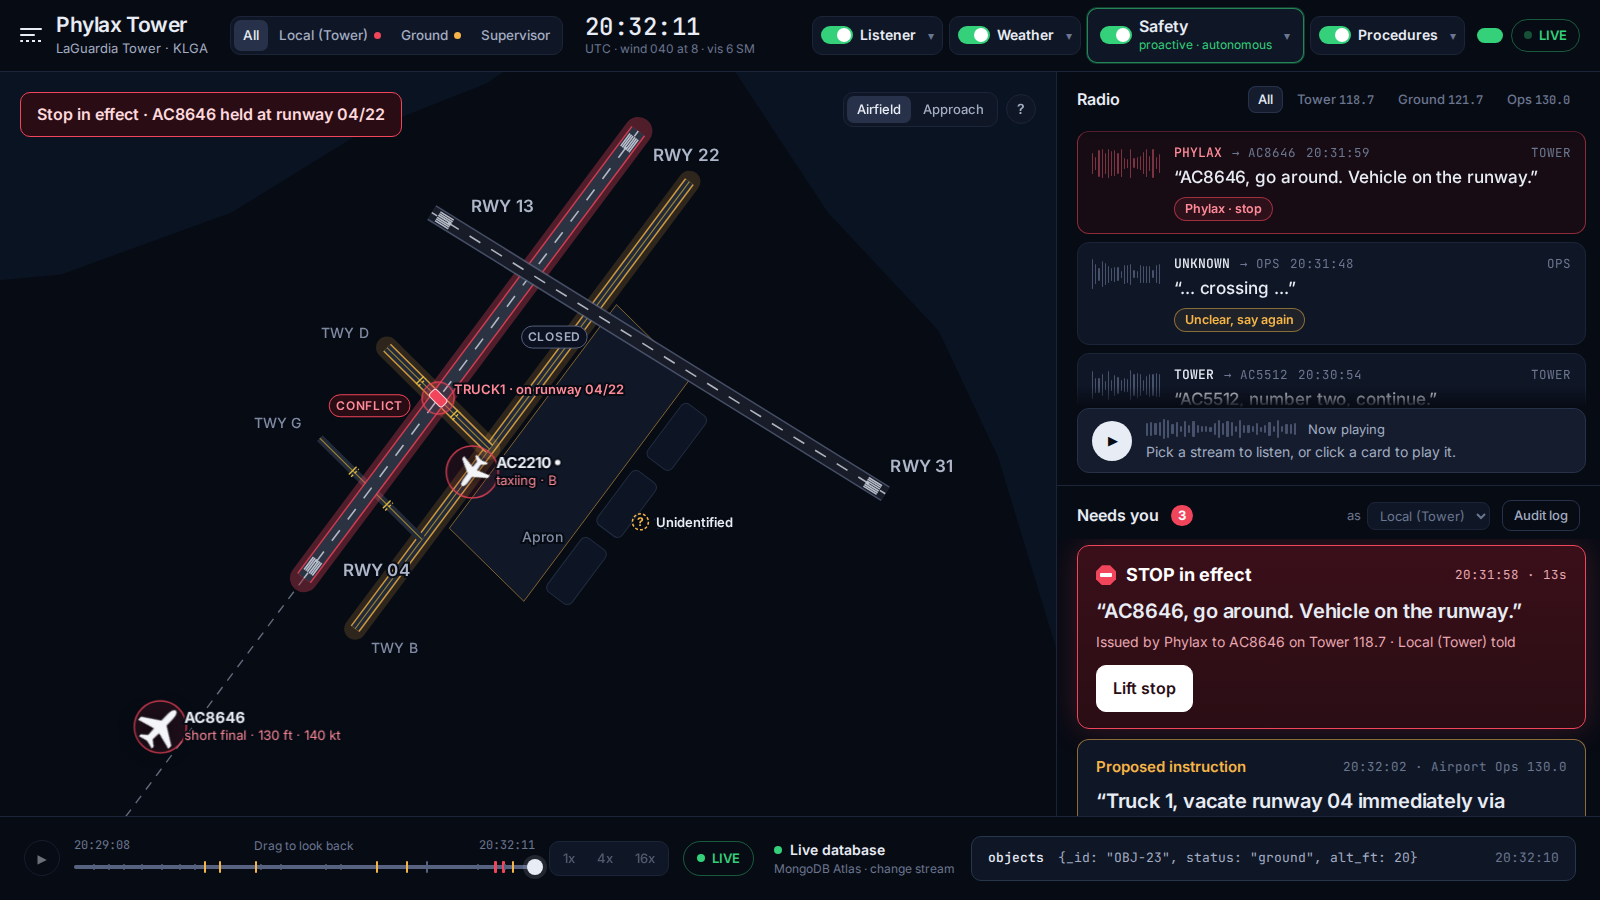
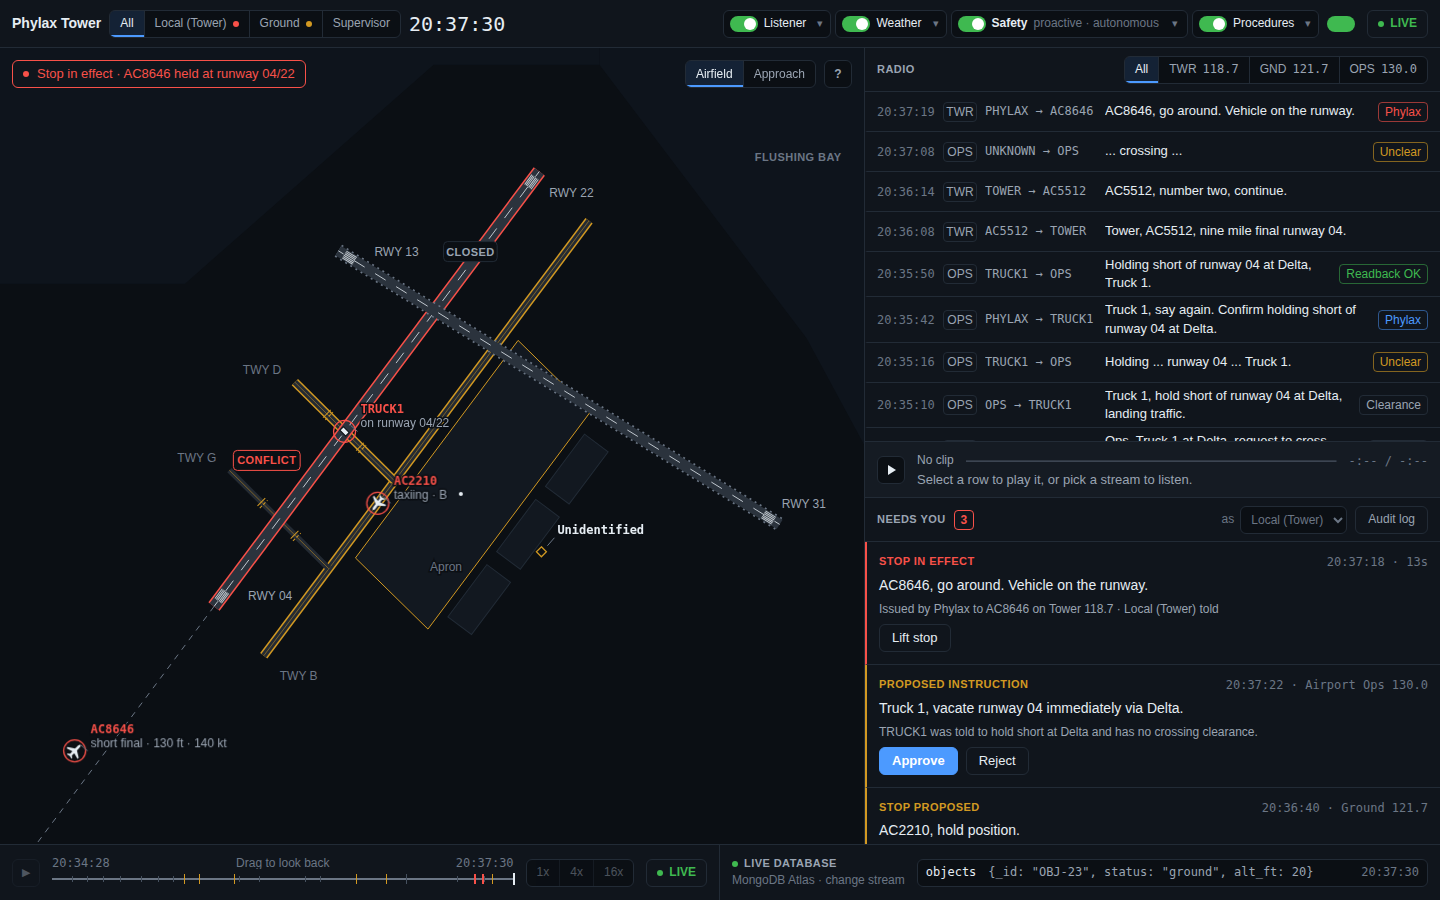
Visualizer: map tags placed clear of each other and of the controls, leader lines, updated screenshots

diff --git a/visualizer/web/src/components/MapView.tsx b/visualizer/web/src/components/MapView.tsx
@@ -119,6 +119,7 @@ export function MapView({ world, objects, laneStatus, ownedLanes, flagged, smoot
   const lanes = [...world.lanes].sort((a, b) => order[a.kind] - order[b.kind]);
   const laneOf = (id: string | null) => world.lanes.find((l) => l._id === id);
   const thrPx = geom.final ? mpx(geom.final.thr) : null;
+  const placed: number[][] = [[0, 0, 250, 56], [size.w - 250, 0, size.w, 56]];
 
   return (
     <div className="map" ref={ref}>
@@ -172,17 +173,6 @@ export function MapView({ world, objects, laneStatus, ownedLanes, flagged, smoot
             const h = 120 * scale;
             return <rect key={i} className="terminal" x={-w / 2} y={-h / 2} width={w} height={h} transform={`translate(${c[0]},${c[1]}) rotate(${t.ang})`} />;
           })}
-        {!far &&
-          geom.termLabel &&
-          (() => {
-            const c = mpx(geom.termLabel);
-            return (
-              <text x={c[0]} y={c[1] + 5} className="quiet-label small">
-                Terminals
-              </text>
-            );
-          })()}
-
         {lanes.map((l) => (
           <LaneShape key={l._id} lane={l} state={statusOf(l._id)?.state ?? 'clear'} px={px} scale={scale} far={far} dim={dim(l._id)} owned={ownedLanes?.has(l._id) ?? false} />
         ))}
@@ -207,7 +197,7 @@ export function MapView({ world, objects, laneStatus, ownedLanes, flagged, smoot
           <LaneLabel key={l._id} lane={l} status={statusOf(l._id)} px={px} far={far} dim={dim(l._id)} scale={scale} />
         ))}
 
-        {objects.map((o, idx) => {
+        {objects.map((o) => {
           const p = px(o.position.coordinates);
           const name = o.callsign ?? o.label ?? o._id;
           const air = o.status === 'airborne';
@@ -229,9 +219,25 @@ export function MapView({ world, objects, laneStatus, ownedLanes, flagged, smoot
                 : laneOf(o.lane_id)?.kind === 'runway'
                   ? `on runway ${laneOf(o.lane_id)!.designators.join('/')}`
                   : '';
-          const below = idx % 2 === 1;
-          const lx = 16;
-          const ly = below ? 20 : sub ? -18 : -8;
+          // place the tag where it is clear of the tags already placed and of the two map controls
+          const tw = Math.max(name.length * 7.6, sub.length * 6.4) + 6;
+          const th = sub ? 30 : 16;
+          const cands: [number, number, boolean][] = [[16, -18, false], [16, 24, false], [-16, -18, true], [-16, 24, true], [16, -50, false], [16, 56, false], [-16, -50, true], [-16, 56, true]];
+          let pick = cands[0];
+          if (showLabel) {
+            for (const c of cands) {
+              const x0 = p[0] + (c[2] ? c[0] - tw : c[0]);
+              const y0 = p[1] + c[1] - 12;
+              if (!placed.some((r) => x0 < r[2] && x0 + tw > r[0] && y0 < r[3] && y0 + th > r[1])) {
+                pick = c;
+                break;
+              }
+            }
+            const x0 = p[0] + (pick[2] ? pick[0] - tw : pick[0]);
+            placed.push([x0, p[1] + pick[1] - 12, x0 + tw, p[1] + pick[1] - 12 + th]);
+          }
+          const [lx, ly, endAnchor] = pick;
+          const below = ly > 0;
           return (
             <g key={o._id} className={`obj obj-${o.kind} ${air ? 'air' : 'gnd'} ${smooth ? 'smooth' : ''} ${hot ? 'hot' : ''}`} style={{ transform: `translate(${p[0]}px, ${p[1]}px)` }}>
               <title>{`${name} · ${o.kind} · ${o.status}${o.lane_id ? ' · on ' + o.lane_id : ''}`}</title>
@@ -239,8 +245,8 @@ export function MapView({ world, objects, laneStatus, ownedLanes, flagged, smoot
               <ObjGlyph o={o} small={far} />
               {showLabel && (
                 <>
-                  <line x1={6} y1={below ? 6 : -6} x2={lx - 3} y2={below ? ly - 6 : ly + 4} className="leader" />
-                  <text x={lx} y={ly} className="obj-label">
+                  <line x1={lx > 0 ? 6 : -6} y1={below ? 6 : -6} x2={lx > 0 ? lx - 3 : lx + 3} y2={below ? ly - 12 : ly + (sub ? 18 : 4)} className="leader" />
+                  <text x={lx} y={ly} textAnchor={endAnchor ? 'end' : 'start'} className="obj-label">
                     <tspan className="obj-name">{name}</tspan>
                     {sub && (
                       <tspan x={lx} dy={14} className="obj-data">
@@ -366,7 +372,7 @@ function LaneLabel({ lane, status, px, far, dim, scale }: { lane: Lane; status?:
         labels.push({ p: [a[0] + ux * 30 + nx * off, a[1] + uy * 30 + ny * off + 6], t: `RWY ${lane.designators[0]}` });
         labels.push({ p: [b[0] - ux * 10 + nx * off, b[1] - uy * 10 + ny * off + 6], t: `RWY ${lane.designators[1] ?? ''}` });
       }
-      chip = [a[0] + (b[0] - a[0]) * 0.3 - nx * (off + 36), a[1] + (b[1] - a[1]) * 0.3 - ny * (off + 6)];
+      chip = uy < 0 ? [a[0] + (b[0] - a[0]) * 0.3 - nx * (off + 36), a[1] + (b[1] - a[1]) * 0.3 - ny * (off + 6)] : [a[0] + ux * 30 + nx * off + 96, a[1] + uy * 30 + ny * off + 2];
     } else {
       const hi = a[1] < b[1] ? a : b;
       const long = len > 400;
